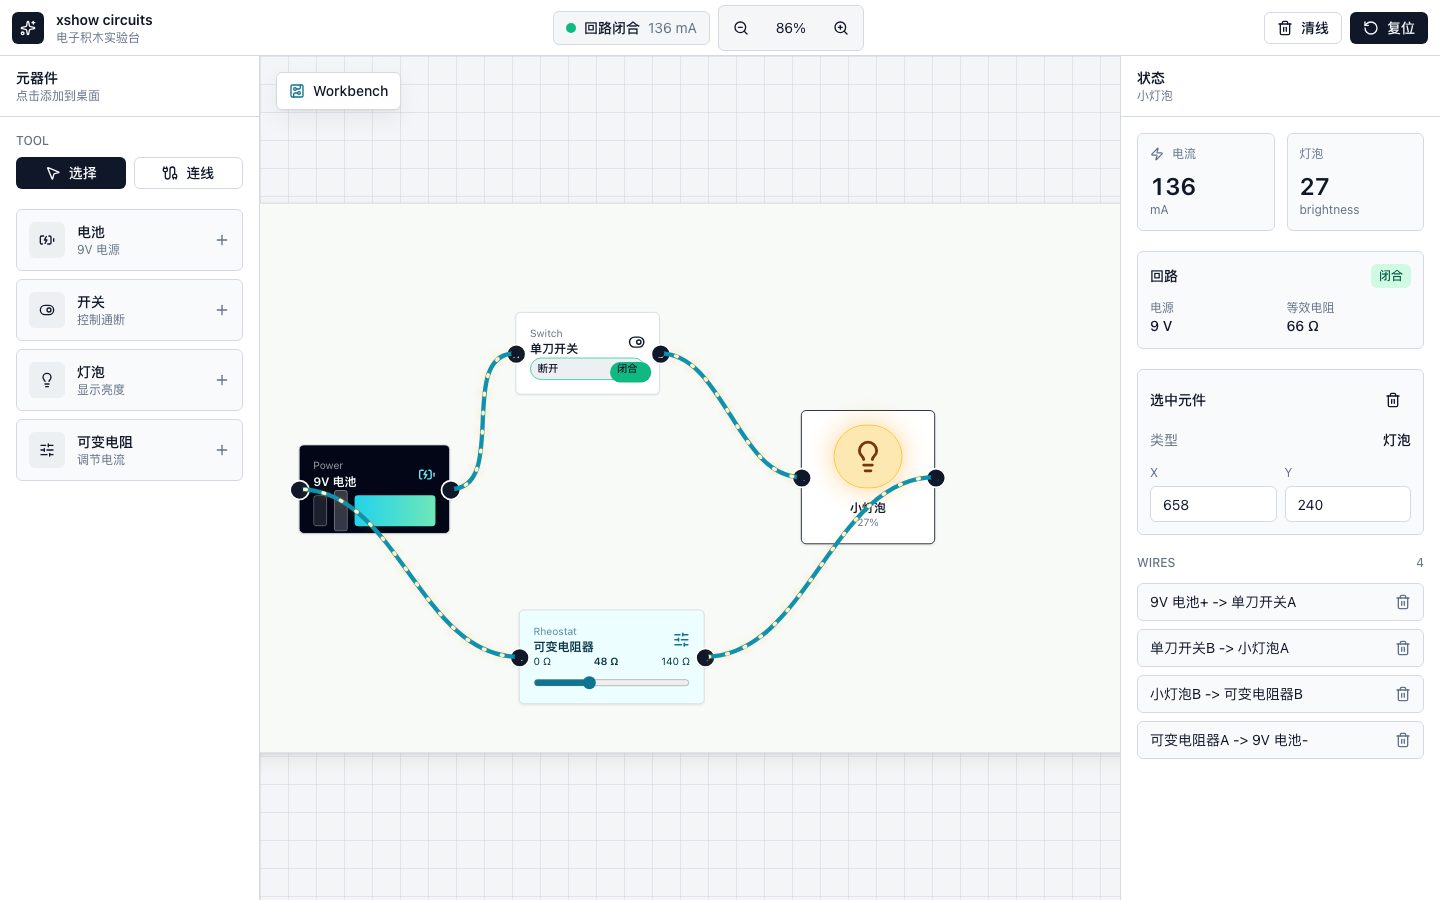
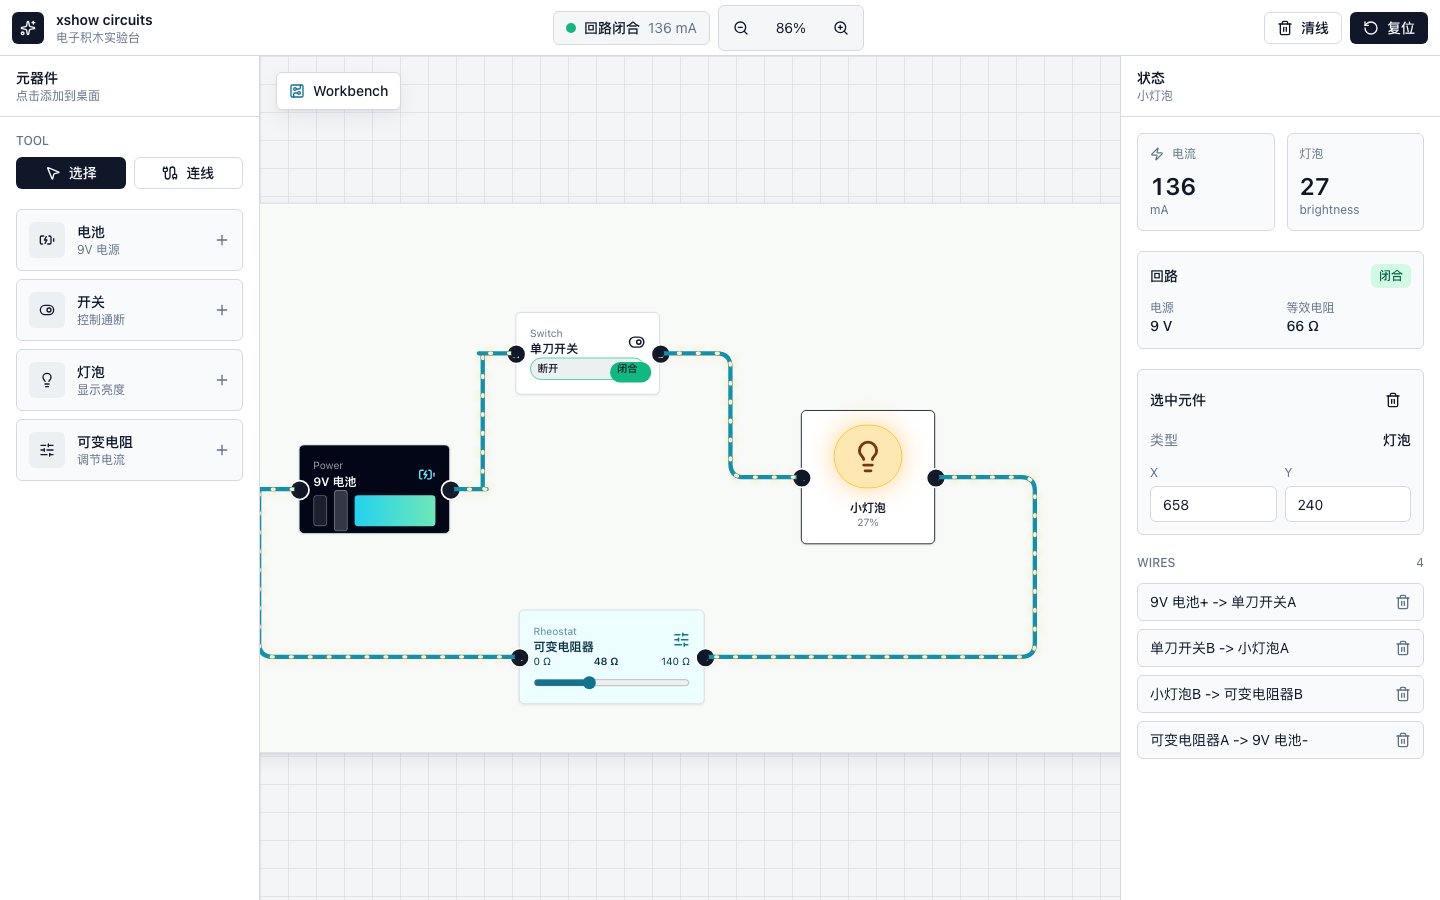
feat: route wires with readable orthogonal paths

diff --git a/src/views/Home.vue b/src/views/Home.vue
@@ -37,6 +37,11 @@ type TerminalHit = {
   ref: TerminalRef;
 };
 
+type Point = {
+  x: number;
+  y: number;
+};
+
 type CircuitPart = {
   id: string;
   name: string;
@@ -262,14 +267,106 @@ function wireEndpointPosition(wire: Wire, end: WireEnd) {
   return getTerminalPosition(wire[end]);
 }
 
-function wirePath(wire: Wire) {
+function clamp(value: number, min: number, max: number) {
+  return Math.min(max, Math.max(min, value));
+}
+
+function terminalSide(ref: TerminalRef) {
+  const part = getPart(ref.partId);
+  if (!part) {
+    return ref.terminal === "a" ? -1 : 1;
+  }
+
+  const spec = getSpec(part);
+  const offset = spec.terminals[ref.terminal];
+  return offset.x <= spec.width / 2 ? -1 : 1;
+}
+
+function compactRoutePoints(points: Point[]) {
+  return points.filter((point, index) => {
+    const previous = points[index - 1];
+    return !previous || previous.x !== point.x || previous.y !== point.y;
+  });
+}
+
+function wireRoutePoints(wire: Wire) {
   const start = wireEndpointPosition(wire, "from");
   const end = wireEndpointPosition(wire, "to");
-  const direction = end.x >= start.x ? 1 : -1;
-  const bend = Math.max(70, Math.abs(end.x - start.x) * 0.45);
-  return `M ${start.x} ${start.y} C ${start.x + bend * direction} ${start.y}, ${
-    end.x - bend * direction
-  } ${end.y}, ${end.x} ${end.y}`;
+  const startSide = terminalSide(wire.from);
+  const endSide = terminalSide(wire.to);
+  const lead = 44;
+  const margin = 28;
+  const startLead = {
+    x: clamp(start.x + startSide * lead, margin, workbench.width - margin),
+    y: start.y,
+  };
+  const endLead = {
+    x: clamp(end.x + endSide * lead, margin, workbench.width - margin),
+    y: end.y,
+  };
+  const route: Point[] = [start, startLead];
+
+  if (startSide === endSide) {
+    const outsideX =
+      startSide > 0
+        ? clamp(Math.max(startLead.x, endLead.x) + 72, margin, workbench.width - margin)
+        : clamp(Math.min(startLead.x, endLead.x) - 72, margin, workbench.width - margin);
+
+    route.push({ x: outsideX, y: startLead.y }, { x: outsideX, y: endLead.y });
+  } else {
+    const middleX = Math.round((startLead.x + endLead.x) / 2);
+    route.push({ x: middleX, y: startLead.y }, { x: middleX, y: endLead.y });
+  }
+
+  route.push(endLead, end);
+  return compactRoutePoints(route);
+}
+
+function roundedOrthogonalPath(points: Point[], radius = 16) {
+  if (points.length === 0) {
+    return "";
+  }
+
+  if (points.length === 1) {
+    return `M ${points[0].x} ${points[0].y}`;
+  }
+
+  const commands = [`M ${points[0].x} ${points[0].y}`];
+
+  for (let index = 1; index < points.length - 1; index += 1) {
+    const previous = points[index - 1];
+    const current = points[index];
+    const next = points[index + 1];
+    const previousDistance = Math.hypot(current.x - previous.x, current.y - previous.y);
+    const nextDistance = Math.hypot(next.x - current.x, next.y - current.y);
+
+    if (previousDistance === 0 || nextDistance === 0) {
+      continue;
+    }
+
+    const turnRadius = Math.min(radius, previousDistance / 2, nextDistance / 2);
+    const before = {
+      x: current.x + ((previous.x - current.x) / previousDistance) * turnRadius,
+      y: current.y + ((previous.y - current.y) / previousDistance) * turnRadius,
+    };
+    const after = {
+      x: current.x + ((next.x - current.x) / nextDistance) * turnRadius,
+      y: current.y + ((next.y - current.y) / nextDistance) * turnRadius,
+    };
+
+    commands.push(
+      `L ${Math.round(before.x)} ${Math.round(before.y)}`,
+      `Q ${current.x} ${current.y} ${Math.round(after.x)} ${Math.round(after.y)}`,
+    );
+  }
+
+  const last = points[points.length - 1];
+  commands.push(`L ${last.x} ${last.y}`);
+  return commands.join(" ");
+}
+
+function wirePath(wire: Wire) {
+  return roundedOrthogonalPath(wireRoutePoints(wire));
 }
 
 function isWireHighlighted(wire: Wire) {

diff --git a/docs/ROADMAP.md b/docs/ROADMAP.md
@@ -8,12 +8,12 @@ The project should stay visual, approachable, and immediate: users should be abl
 
 ## Progress
 
-Current focus: **wire routing readability**.
+Current focus: **guided lesson mode**.
 
 | Area | Status | Notes |
 | --- | --- | --- |
 | Interactive circuit playground | Done | Battery, switch, bulb, resistor, wires, brightness, and circuit state are working. |
-| Wire selection and reconnecting | In progress | Wires can be selected, deleted, reconnected, snapped to nearby terminals, and show clearer hover/drag/drop feedback. Routing still needs polish. |
+| Wire selection and reconnecting | Done for v0.1 | Wires can be selected, deleted, reconnected, snapped to nearby terminals, show clearer hover/drag/drop feedback, and use more readable orthogonal routing. |
 | Current direction animation | Done | Closed circuits now show animated current flow on energized wires. Further polish remains possible. |
 | Guided lesson mode | Not started | Needs lesson data model, lesson panel, and simple success checks. |
 
@@ -21,14 +21,14 @@ Current focus: **wire routing readability**.
 
 ### Better wire interactions
 
-Status: **In progress**
+Status: **Done for v0.1**
 
 - [x] Select wires directly on the workbench
 - [x] Drag wire endpoints to reconnect to other terminals
 - [x] Drag an unselected wire endpoint directly without a separate select step
 - [x] Keep selected wires above overlapping endpoints
 - [x] Snap wire endpoints more clearly to nearby terminals
-- [ ] Improve wire routing so connections remain readable
+- [x] Improve wire routing so connections remain readable
 - [x] Add clearer hover, drag, and drop states for wire endpoints
 
 ### Refine current direction animation

diff --git a/docs/ROADMAP.zh-CN.md b/docs/ROADMAP.zh-CN.md
@@ -6,12 +6,12 @@
 
 ## 当前进度
 
-当前重点：**导线走线可读性**。
+当前重点：**引导式实验课程模式**。
 
 | 方向 | 状态 | 说明 |
 | --- | --- | --- |
 | 交互式电路实验台 | 已完成 | 电池、开关、灯泡、可变电阻、导线、亮度和回路状态已经可用。 |
-| 导线选择和重接 | 进行中 | 导线可以选中、删除、拖动端点重接，也会吸附到附近端子，并且有更清晰的 hover、拖拽、释放反馈。走线还需要继续打磨。 |
+| 导线选择和重接 | v0.1 已完成 | 导线可以选中、删除、拖动端点重接，也会吸附到附近端子，并且有更清晰的 hover、拖拽、释放反馈和更易读的正交折线走线。 |
 | 电流方向动画 | 已完成 | 闭合回路中的通电导线已经有电流流动动画，后续还可以继续优化表现。 |
 | 引导式实验课程模式 | 未开始 | 需要课程数据模型、课程面板和简单成功判断。 |
 
@@ -19,14 +19,14 @@
 
 ### 更好的导线交互
 
-状态：**进行中**
+状态：**v0.1 已完成**
 
 - [x] 可以在工作台上直接选中导线
 - [x] 可以拖动导线端点重新连接到其他端子
 - [x] 未选中导线时，也可以直接拖动端点开始重接
 - [x] 选中的导线始终位于重叠端点之上
 - [x] 更清晰地把导线端点吸附到附近端子
-- [ ] 优化导线路径，让连接关系更容易读懂
+- [x] 优化导线路径，让连接关系更容易读懂
 - [x] 补充更清晰的 hover、拖拽、释放状态
 
 ### 继续优化电流方向动画

diff --git a/docs/issue-drafts/wire-snapping-and-routing.md b/docs/issue-drafts/wire-snapping-and-routing.md
@@ -14,7 +14,7 @@ Improve wire endpoint snapping and routing so circuit connections feel more phys
 - [x] The active drop target is highlighted clearly
 - [x] Dropping on empty space cancels the reconnect and keeps the previous connection
 - [x] Selected wires remain above overlapping wires and endpoints
-- [ ] Routed wires avoid covering component labels when practical
+- [x] Routed wires avoid covering component labels when practical
 
 ## Notes
 

diff --git a/docs/issue-drafts/wire-snapping-and-routing.zh-CN.md b/docs/issue-drafts/wire-snapping-and-routing.zh-CN.md
@@ -14,7 +14,7 @@
 - [x] 当前可释放的目标端子有明确高亮
 - [x] 如果释放在空白区域，取消重接并保留原连接
 - [x] 选中的导线始终位于重叠导线和端点之上
-- [ ] 在可行范围内，导线走线尽量避免遮住元器件文字
+- [x] 在可行范围内，导线走线尽量避免遮住元器件文字
 
 ## 备注
 

diff --git a/README.md b/README.md
@@ -83,7 +83,7 @@ See [CONTRIBUTING.md](CONTRIBUTING.md). Documentation changes should keep Englis
 
 Near-term priorities:
 
-- Current focus: wire routing readability
+- Current focus: guided lesson mode
 - Done for v0.1: current direction animation
 - Next major area: guided lesson mode
 

diff --git a/README.zh-CN.md b/README.zh-CN.md
@@ -80,7 +80,7 @@ pnpm preview
 
 近期优先级：
 
-- 当前重点：导线走线可读性
+- 当前重点：引导式实验课程模式
 - v0.1 已完成：电流方向动画
 - 下一个大方向：引导式实验课程模式
 
